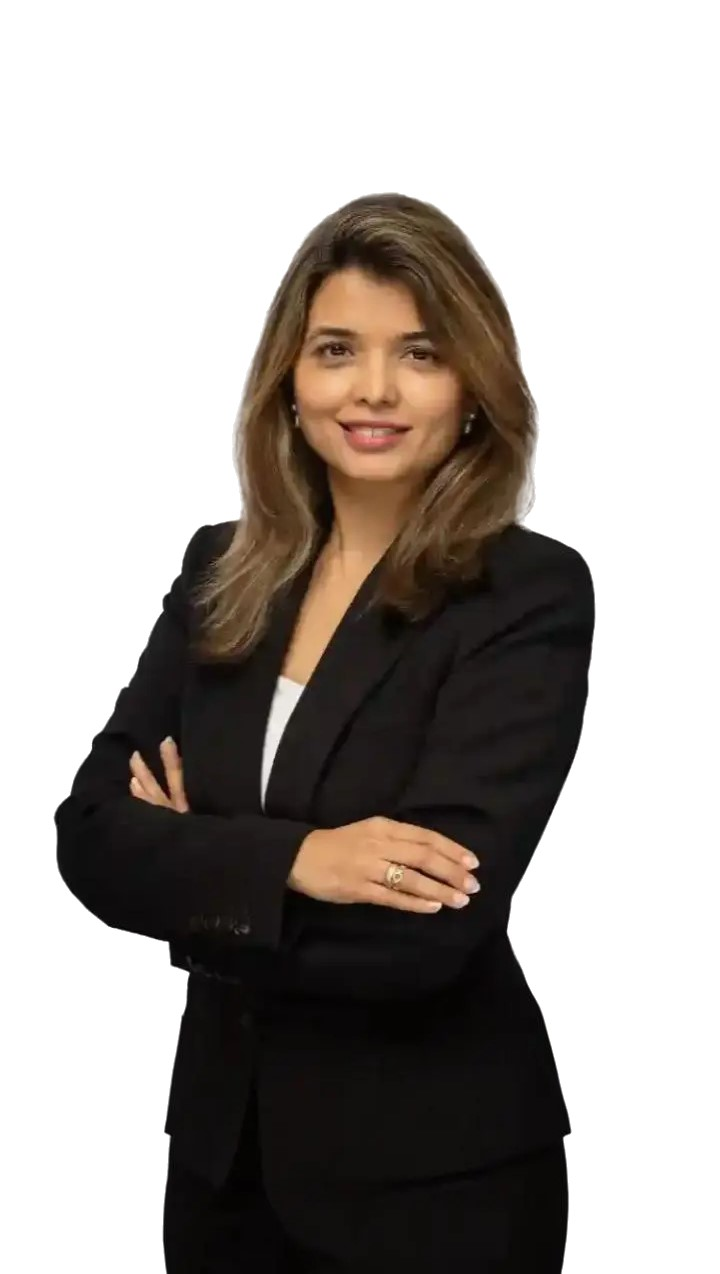
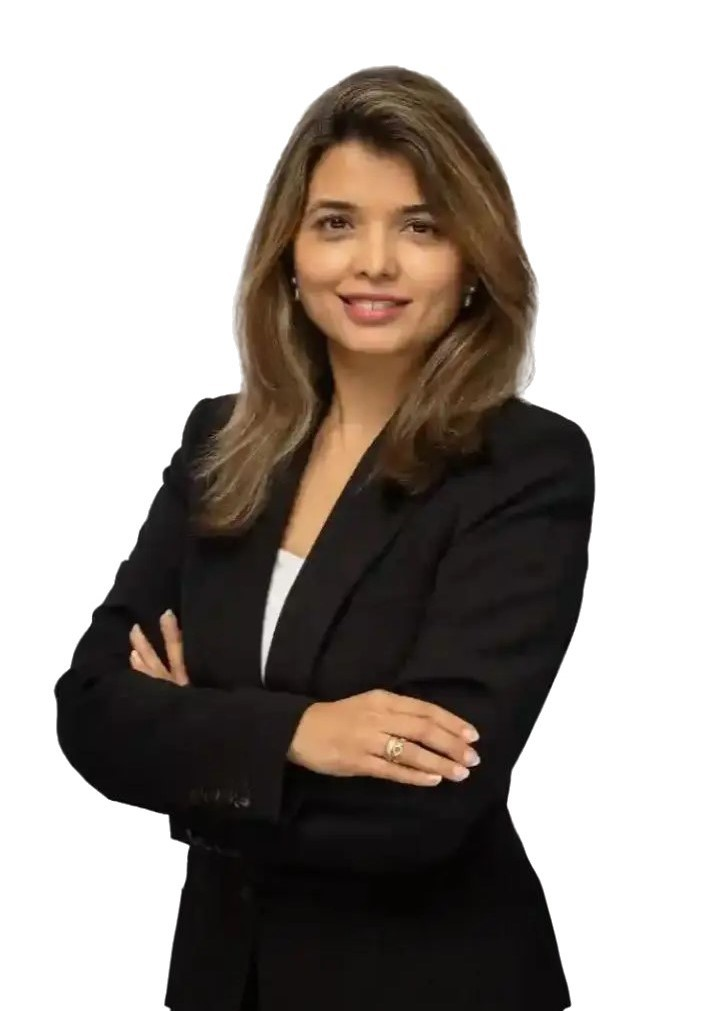
update team image size

diff --git a/src/styles/globals.css b/src/styles/globals.css
@@ -667,11 +667,11 @@ svg {
   width: 100%;
   display: flex;
   flex-wrap: wrap;
-  gap: 2.6666%;
+  gap: 5.33%;
 }
 
 .team-container .member {
-  width: 23%;
+  width: 21%;
   margin-bottom: 3%;
 }
 .team-container .member:hover img {
@@ -683,9 +683,9 @@ svg {
 }
 .team-container .profile img {
   width: 100%;
-  height: 450px;
+  height: auto;
   object-fit: cover;
-  object-position: center;
+  object-position: bottom;
   transition: all 0.4s ease-in-out;
   filter: grayscale(100%) ;
 }
